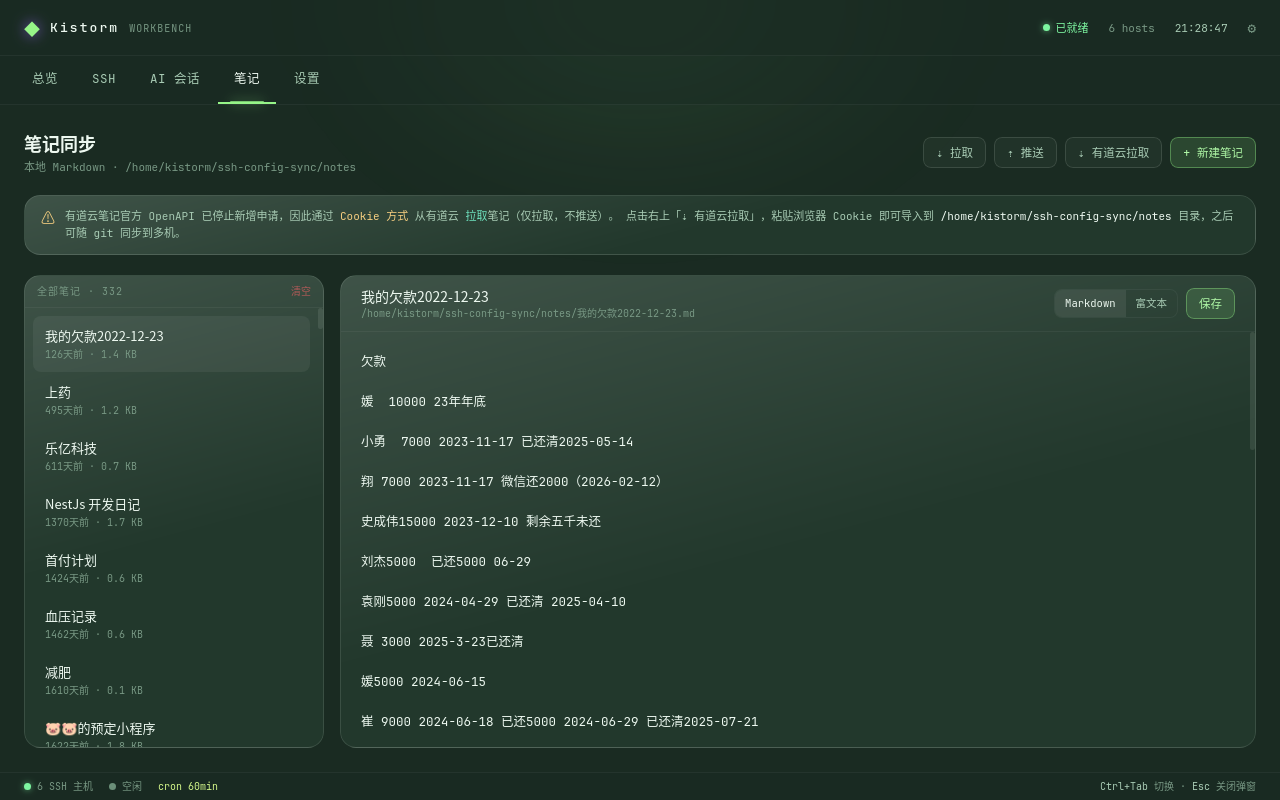
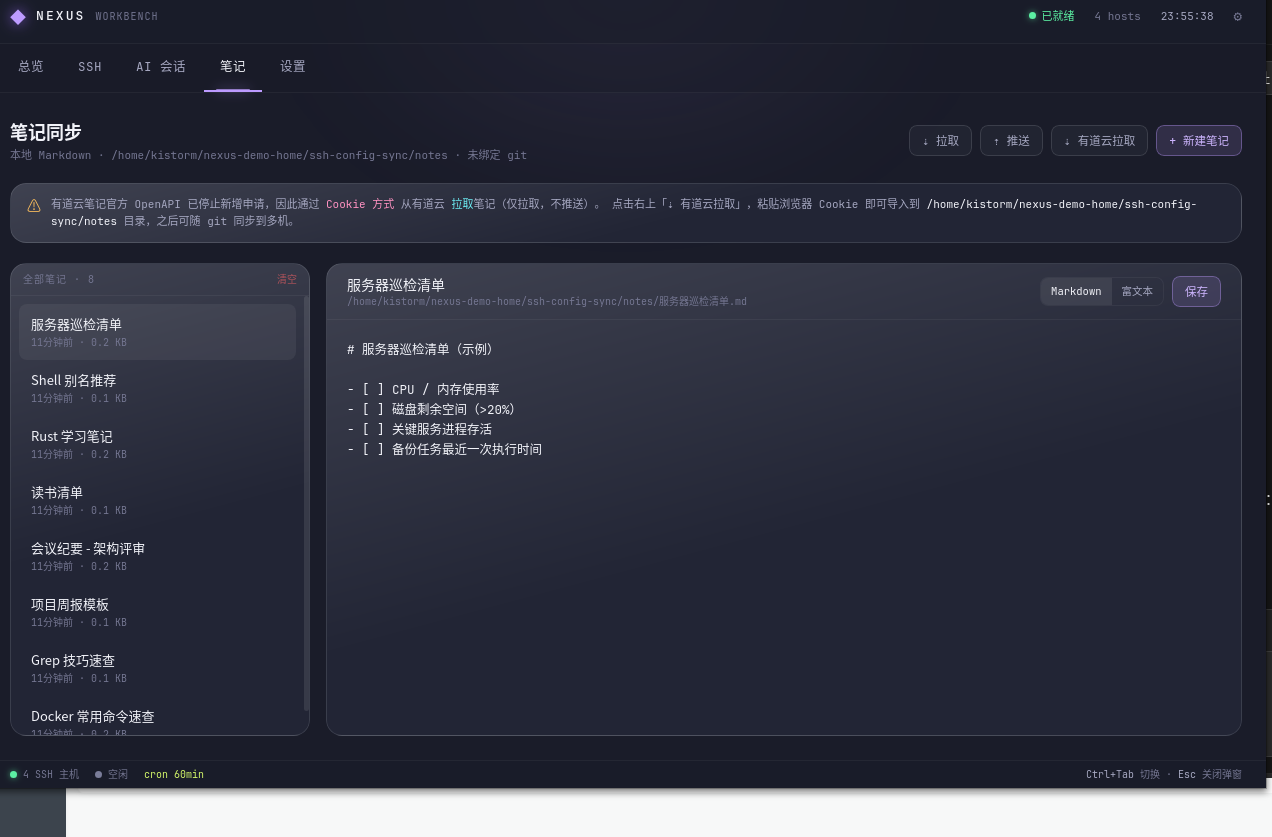
docs: 首次引导傻瓜式教程 + 全部截图更换为示例数据
- 新增 06-onboarding / 07-onboarding-fresh 引导界面截图
- 中英双语 3 分钟分步教程（场景 A 全新 / 场景 B 恢复，照着点就行）
- 重拍 5 张主界面截图：示例主机（RFC5737 文档 IP）、示例笔记、示例活动流
- 移除包含真实私有笔记标题的旧截图

diff --git a/README.md b/README.md
@@ -124,22 +124,49 @@ pnpm tauri dev          # development
 pnpm tauri build        # production bundle (.deb / AppImage / dmg / exe)
 ```
 
-### First-run setup (guided)
+### First-run setup (3-minute guide, just follow the steps)
 
-On first launch you get an onboarding screen with two modes:
+Launching the app for the first time opens the onboarding screen:
 
-| Mode | Flow |
-|---|---|
-| **Recover** | Connect repo → pull everything (progress bar) → decrypt with master password (per-file progress) → regenerate `~/.ssh/config` |
-| **Fresh** | Connect an **empty** repo → encrypt local data with master password → initial push (object upload progress) |
+![Onboarding - choose mode](docs/images/06-onboarding.png)
 
-**Safeguards shared by both modes:**
+#### Scenario A: first time (Fresh mode) — encrypt & upload this machine's data
+
+> Use when: you already have SSH configs / notes / AI sessions on this machine and want them backed up to the cloud.
+
+| Step | Action | Notes |
+|---|---|---|
+| 1 | Click **“⇡ Fresh”** | Opens the form |
+| 2 | Fill in the **Git repo URL** | First create a **private empty repo** on GitHub, then enter `git@github.com:you/your-repo.git` (this exact format — anything else is rejected) |
+| 3 | Click **“Check connectivity”** | Wait for the green ✓ (retries automatically, network glitches handled) |
+| 4 | Set the **master password** (twice) | At least 6 chars, **remember it** — it encrypts everything in the cloud |
+| 5 | Click **“⇡ Encrypt & push”** | Watch the progress bar (encrypt → commit → upload %) |
+| 6 | Wait for the **5-second countdown** | Auto-enters the main UI — done ✅ |
+
+![Onboarding - Fresh form](docs/images/07-onboarding-fresh.png)
+
+#### Scenario B: new machine / reinstall (Recover mode) — pull everything back from the cloud
+
+> Use when: the tool is installed on a new machine and you want SSH hosts (incl. passwords), notes and AI sessions back.
+
+| Step | Action | Notes |
+|---|---|---|
+| 1 | Click **“⇣ Recover”** | Opens the form |
+| 2 | Enter the **same repo URL** | Exactly the one used when uploading |
+| 3 | Click **“Check connectivity”** | Green ✓ |
+| 4 | Enter the **original master password** → click **“⇣ Start recovery”** | Progress: pull → decrypt → generate SSH config |
+| 5 | Countdown ends, main UI opens | SSH hosts/passwords, notes and AI sessions are all back ✅ |
+
+> 💡 Wrong password? You'll see “incorrect master password” and the password field gets focused — the content was already pulled on the first click, so fixing the password and retrying takes **seconds, no re-download**.
+>
+> 💡 Forgot the master password? Set a new one in Settings → click “⇡ Full push” to re-encrypt the cloud copy with it.
+
+#### Safeguards shared by both modes
 
 - **Strict Git URL validation**: only `git@host:owner/repo.git` is accepted — `https://`, `ssh://` and local paths are rejected in real time as you type (saving the config enforces the same rule)
 - **Mandatory connectivity check**: after entering the URL you must click “Check connectivity” (`git ls-remote`) before continuing; editing the URL clears the previous check result
 - **Live progress panel**: stage description + percentage + progress bar + elapsed time; git's object-transfer progress is parsed for push/pull
 - **Automatic network retries**: connectivity check, pull and push all retry 3 times (3 s apart); the progress panel shows “retry N”
-- **Clear wrong-password handling**: if 0 files decrypt, you get “incorrect master password” and the password field is auto-focused; the cloud content is already local, so fixing the password and retrying takes seconds — no re-download
 - **5-second countdown** into the main UI on success (with a “Enter now” button)
 - **assh bootstrap config**: when `~/.ssh/assh.yml` is missing, a minimal transport-only config is generated automatically (just the git-sync channel, no user hosts) so the recovery flow itself can reach the network
 

diff --git a/README.zh-CN.md b/README.zh-CN.md
@@ -123,22 +123,49 @@ pnpm tauri dev          # 开发模式
 pnpm tauri build        # 打包（.deb / AppImage / dmg / exe）
 ```
 
-### 首次引导
+### 首次引导教程（3 分钟上手，照着点就行）
 
-第一次打开会进入引导界面，两种模式：
+第一次打开应用会自动进入引导界面：
 
-| 模式 | 流程 |
-|---|---|
-| **恢复模式** | 连接仓库 → 全量拉取（进度条）→ 用主密码解密（逐文件进度）→ 重新生成 `~/.ssh/config` |
-| **全新模式** | 连接**空仓库** → 用主密码加密本机数据 → 首次推送（上传对象带进度） |
+![首次引导 - 选择模式](docs/images/06-onboarding.png)
 
-**两种模式共用的保障机制：**
+#### 场景 A：第一次使用（全新模式）—— 把本机数据加密上传
+
+> 适用：第一次用这个工具，本机已经有 SSH 配置 / 笔记 / AI 会话，想备份到云端。
+
+| 步骤 | 操作 | 说明 |
+|---|---|---|
+| 1 | 点 **「⇡ 全新模式」** | 进入表单 |
+| 2 | 填 **Git 仓库地址** | 先在 GitHub 建一个**私有空仓库**，填 `git@github.com:你的用户名/仓库名.git`（必须这个格式，其他格式会被拒绝） |
+| 3 | 点 **「检测连通性」** | 等出现绿色 ✓「连接正常」（会自动重试，网络抖动不用管） |
+| 4 | 设置 **主密码**（两次一致） | 至少 6 位，**务必牢记**——云端数据全靠它加密 |
+| 5 | 点 **「⇡ 加密并推送」** | 进度条走完（加密 → 提交 → 上传对象 %）|
+| 6 | 等待 **5 秒倒计时** | 自动进入主界面，完成 ✅ |
+
+![首次引导 - 全新模式表单](docs/images/07-onboarding-fresh.png)
+
+#### 场景 B：换电脑 / 重装系统（恢复模式）—— 从云端拉回全部数据
+
+> 适用：新机器上装好工具，想把 SSH 主机（含密码）、笔记、AI 会话全部拉回来。
+
+| 步骤 | 操作 | 说明 |
+|---|---|---|
+| 1 | 点 **「⇣ 恢复模式」** | 进入表单 |
+| 2 | 填 **同一个仓库地址** | 和当初上传时一模一样 |
+| 3 | 点 **「检测连通性」** | 绿色 ✓ |
+| 4 | 填 **当初的主密码** → 点 **「⇣ 开始恢复」** | 进度条：拉取云端 → 解密 → 生成 SSH 配置 |
+| 5 | 倒计时结束进入主界面 | SSH 主机/密码、笔记、AI 会话全部回来 ✅ |
+
+> 💡 密码填错了？会明确提示「主密码不正确」并自动聚焦密码框——内容第一次就已拉到本地，改对密码再点一次，**几秒完成，不用重新下载**。
+>
+> 💡 忘了主密码？在「设置」里改一个新主密码 → 点「⇡ 全量推送」，云端会用新密码重新加密。
+
+#### 两种模式共用的保障机制
 
 - **Git 地址严格格式校验**：仅接受 `git@host:用户名/仓库.git`；`https://`、`ssh://`、本地路径等会在输入时被实时拒绝（保存配置时同样校验）
 - **检测连通性前置**：填写地址后必须点「检测连通性」（`git ls-remote`），通过后才能继续；修改地址自动清除检测结果
 - **实时进度面板**：阶段说明 + 百分比 + 进度条 + 已用时间；推送/拉取解析 git 的对象传输进度
 - **网络自动重试**：连接验证、拉取、推送失败均自动重试 3 次（间隔 3 秒），进度条显示「第 N 次重试」
-- **密码错误明确提示**：解密 0 个文件成功时提示「主密码不正确」并自动聚焦密码框；云端内容已在本地，改对密码重试无需重新下载
 - **成功 5 秒倒计时**进入主界面，也可点「立即进入」跳过
 - **assh 引导配置**：本机没有 `assh.yml` 时自动生成最小传输配置（仅含 git 同步通道，不含用户主机），避免恢复流程自身无法联网
 
